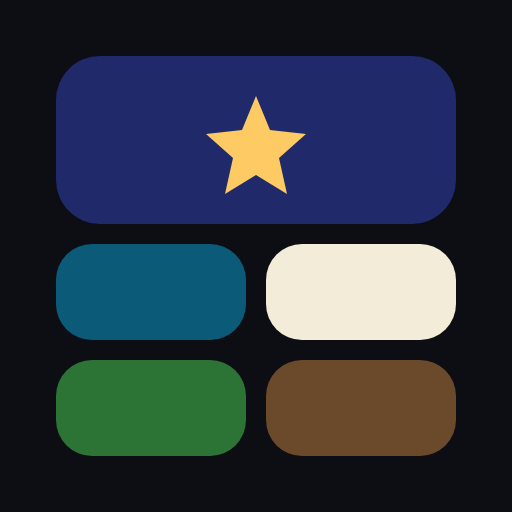
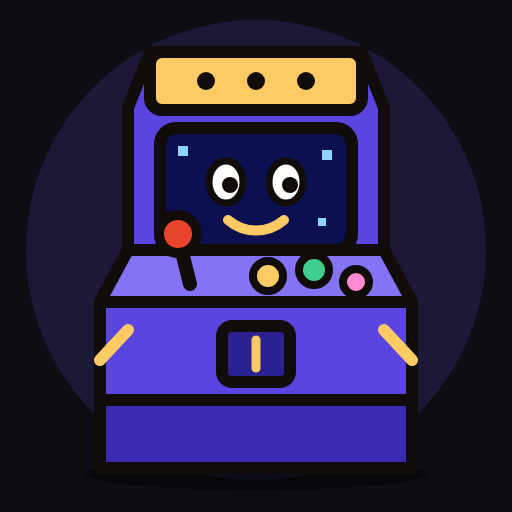
Arcade : l'icône était une mosaïque abstraite, elle devient une borne d'arcade
Demandé par Julie : « une icône d'arcade ». Une borne vivante (écran qui sourit,
manette, boutons) sur le fond de l'app. arcade-2, puisque les icônes sont dans
le cache.

diff --git a/icone.html b/icone.html
@@ -5,24 +5,43 @@ html,body{margin:0;padding:0;background:#fff}
 .icone svg,.masquable svg{display:block;width:512px;height:512px}
 </style></head>
 <body>
-<!-- La mosaïque de l'arcade : une grande tuile et quatre petites, aux couleurs des
-     cinq jeux. tools/chevalier-icones.mjs . photographie .icone (192 et 512) et
-     .masquable (512) : le fond de celle-ci est EXACTEMENT le background_color du
-     manifeste, et le dessin tient dans le cercle central. -->
-<div class="icone"><svg xmlns="http://www.w3.org/2000/svg" viewBox="0 0 512 512">
-  <rect width="512" height="512" fill="#0d0d14"/>
-  <g id="m">
-    <rect x="56" y="56" width="400" height="168" rx="44" fill="#202a6b"/><path d="M256 96l14 34 36 4-27 24 8 36-31-19-31 19 8-36-27-24 36-4z" fill="#feca63"/>
-    <rect x="56" y="244" width="190" height="96" rx="36" fill="#0b5b78"/><rect x="266" y="244" width="190" height="96" rx="36" fill="#f3ecd9"/>
-    <rect x="56" y="360" width="190" height="96" rx="36" fill="#2c7436"/><rect x="266" y="360" width="190" height="96" rx="36" fill="#6b4a2b"/>
-  </g>
+<!-- Une borne d'arcade, vivante (demandé par Julie le 2026-10-05 : « une icône
+     d'arcade »), sur le fond de l'app. tools/chevalier-icones.mjs . photographie
+     .icone (192 et 512) et .masquable (512) : le fond de celle-ci est EXACTEMENT le
+     background_color du manifeste, et le dessin tient dans le cercle central. -->
+<div class="icone"><svg xmlns="http://www.w3.org/2000/svg" viewBox="0 0 512 512"><rect width="512" height="512" fill="#0d0d14"/><circle cx="256" cy="250" r="230" fill="#1b1838"/>
+    <ellipse cx="256" cy="474" rx="170" ry="16" fill="rgba(0,0,0,.45)"/>
+    <path d="M150 52H362L384 108V250L412 302V468H100V302L128 250V108Z" fill="#5a45e0" stroke="#120c08" stroke-width="12" stroke-linejoin="round" stroke-linecap="round"/>
+    <path d="M100 400H412V468H100Z" fill="#3a2bb0" stroke="#120c08" stroke-width="12" stroke-linejoin="round" stroke-linecap="round"/>
+    <path d="M128 330l-28 30M384 330l28 30" stroke="#feca63" stroke-width="12" stroke-linecap="round"/>
+    <rect x="150" y="52" width="212" height="58" rx="12" fill="#feca63" stroke="#120c08" stroke-width="12" stroke-linejoin="round" stroke-linecap="round"/>
+    <g fill="#120c08"><circle cx="206" cy="81" r="9"/><circle cx="256" cy="81" r="9"/><circle cx="306" cy="81" r="9"/></g>
+    <rect x="160" y="128" width="192" height="122" rx="16" fill="#0b1150" stroke="#120c08" stroke-width="12" stroke-linejoin="round" stroke-linecap="round"/>
+    <g fill="#8fd3ff"><rect x="178" y="146" width="10" height="10"/><rect x="322" y="150" width="10" height="10"/><rect x="186" y="222" width="8" height="8"/><rect x="318" y="218" width="8" height="8"/></g>
+    <ellipse cx="226" cy="182" rx="17" ry="21" fill="#fff" stroke="#120c08" stroke-width="7"/><circle cx="230" cy="185" r="8" fill="#120c08"/>
+    <ellipse cx="286" cy="182" rx="17" ry="21" fill="#fff" stroke="#120c08" stroke-width="7"/><circle cx="290" cy="185" r="8" fill="#120c08"/>
+    <path d="M228 220c16 14 40 14 56 0" fill="none" stroke="#feca63" stroke-width="10" stroke-linecap="round"/>
+    <path d="M128 250H384L412 302H100Z" fill="#8573f5" stroke="#120c08" stroke-width="12" stroke-linejoin="round" stroke-linecap="round"/>
+    <path d="M190 284L180 244" stroke="#120c08" stroke-width="14" stroke-linecap="round"/><circle cx="178" cy="234" r="19" fill="#e8452c" stroke="#120c08" stroke-width="10"/>
+    <circle cx="268" cy="276" r="15" fill="#feca63" stroke="#120c08" stroke-width="8"/><circle cx="314" cy="270" r="15" fill="#3ecf8e" stroke="#120c08" stroke-width="8"/><circle cx="356" cy="282" r="13" fill="#ff8ad1" stroke="#120c08" stroke-width="8"/>
+    <rect x="222" y="326" width="68" height="56" rx="10" fill="#2b2190" stroke="#120c08" stroke-width="12" stroke-linejoin="round" stroke-linecap="round"/><path d="M256 340v28" stroke="#feca63" stroke-width="9" stroke-linecap="round"/>
 </svg></div>
-<div class="masquable"><svg xmlns="http://www.w3.org/2000/svg" viewBox="0 0 512 512">
-  <rect width="512" height="512" fill="#0d0d14"/>
-  <g transform="translate(256 256) scale(.7) translate(-256 -256)">
-    <rect x="56" y="56" width="400" height="168" rx="44" fill="#202a6b"/><path d="M256 96l14 34 36 4-27 24 8 36-31-19-31 19 8-36-27-24 36-4z" fill="#feca63"/>
-    <rect x="56" y="244" width="190" height="96" rx="36" fill="#0b5b78"/><rect x="266" y="244" width="190" height="96" rx="36" fill="#f3ecd9"/>
-    <rect x="56" y="360" width="190" height="96" rx="36" fill="#2c7436"/><rect x="266" y="360" width="190" height="96" rx="36" fill="#6b4a2b"/>
-  </g>
+<div class="masquable"><svg xmlns="http://www.w3.org/2000/svg" viewBox="0 0 512 512"><rect width="512" height="512" fill="#0d0d14"/><circle cx="256" cy="256" r="200" fill="#1b1838"/>
+  <g transform="translate(256 256) scale(.66) translate(-256 -262)">
+    <ellipse cx="256" cy="474" rx="170" ry="16" fill="rgba(0,0,0,.45)"/>
+    <path d="M150 52H362L384 108V250L412 302V468H100V302L128 250V108Z" fill="#5a45e0" stroke="#120c08" stroke-width="12" stroke-linejoin="round" stroke-linecap="round"/>
+    <path d="M100 400H412V468H100Z" fill="#3a2bb0" stroke="#120c08" stroke-width="12" stroke-linejoin="round" stroke-linecap="round"/>
+    <path d="M128 330l-28 30M384 330l28 30" stroke="#feca63" stroke-width="12" stroke-linecap="round"/>
+    <rect x="150" y="52" width="212" height="58" rx="12" fill="#feca63" stroke="#120c08" stroke-width="12" stroke-linejoin="round" stroke-linecap="round"/>
+    <g fill="#120c08"><circle cx="206" cy="81" r="9"/><circle cx="256" cy="81" r="9"/><circle cx="306" cy="81" r="9"/></g>
+    <rect x="160" y="128" width="192" height="122" rx="16" fill="#0b1150" stroke="#120c08" stroke-width="12" stroke-linejoin="round" stroke-linecap="round"/>
+    <g fill="#8fd3ff"><rect x="178" y="146" width="10" height="10"/><rect x="322" y="150" width="10" height="10"/><rect x="186" y="222" width="8" height="8"/><rect x="318" y="218" width="8" height="8"/></g>
+    <ellipse cx="226" cy="182" rx="17" ry="21" fill="#fff" stroke="#120c08" stroke-width="7"/><circle cx="230" cy="185" r="8" fill="#120c08"/>
+    <ellipse cx="286" cy="182" rx="17" ry="21" fill="#fff" stroke="#120c08" stroke-width="7"/><circle cx="290" cy="185" r="8" fill="#120c08"/>
+    <path d="M228 220c16 14 40 14 56 0" fill="none" stroke="#feca63" stroke-width="10" stroke-linecap="round"/>
+    <path d="M128 250H384L412 302H100Z" fill="#8573f5" stroke="#120c08" stroke-width="12" stroke-linejoin="round" stroke-linecap="round"/>
+    <path d="M190 284L180 244" stroke="#120c08" stroke-width="14" stroke-linecap="round"/><circle cx="178" cy="234" r="19" fill="#e8452c" stroke="#120c08" stroke-width="10"/>
+    <circle cx="268" cy="276" r="15" fill="#feca63" stroke="#120c08" stroke-width="8"/><circle cx="314" cy="270" r="15" fill="#3ecf8e" stroke="#120c08" stroke-width="8"/><circle cx="356" cy="282" r="13" fill="#ff8ad1" stroke="#120c08" stroke-width="8"/>
+    <rect x="222" y="326" width="68" height="56" rx="10" fill="#2b2190" stroke="#120c08" stroke-width="12" stroke-linejoin="round" stroke-linecap="round"/><path d="M256 340v28" stroke="#feca63" stroke-width="9" stroke-linecap="round"/></g>
 </svg></div>
 </body></html>

diff --git a/sw.js b/sw.js
@@ -3,7 +3,7 @@
    ses pages, jamais celui-ci. Patron de bataille/sw.js.
    ⚠ VERSION n'existe QU'ICI. La changer à chaque modification d'un fichier de
    SHELL (dont la liste des jeux de index.html). */
-var VERSION = "arcade-1";
+var VERSION = "arcade-2";
 /* Tous nos jeux et apps partagent l'origine replica-n8n.github.io, donc le même
    CacheStorage : le cache porte le nom du jeu et de sa portée, et l'activation ne
    supprime QUE les siens. */
